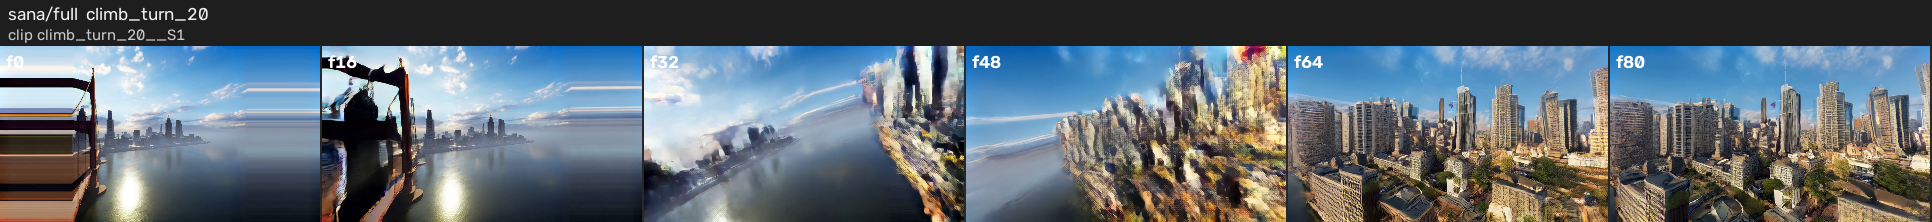
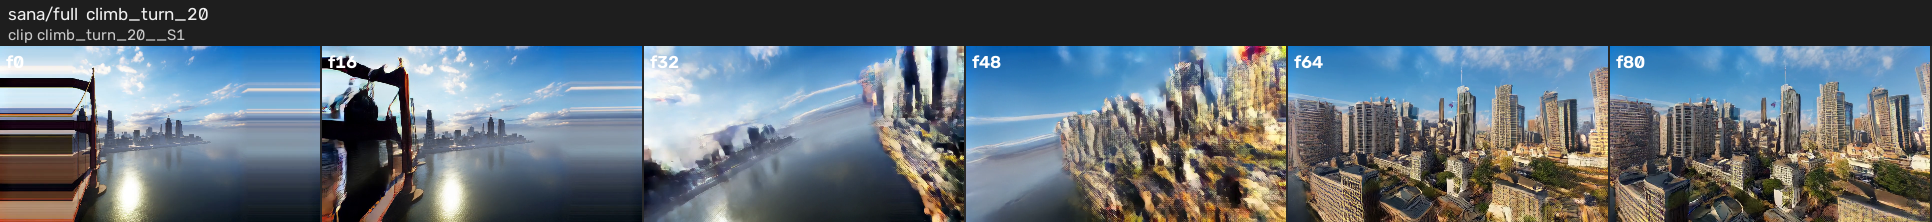
x2: quote the frozen tier's real development numbers and rebuild the labelling kit
coh12_p1 dev false-reject 1/17, detection by family with denominators, and the fact that no
forest_ridge clip is testable at all; 27 contact sheets.

diff --git a/reports/X2_final_design_dev.md b/reports/X2_final_design_dev.md
@@ -84,17 +84,29 @@ order them.
 
 ### Pipeline development evidence (reused, cited — not recomputed here)
 
+The pipeline's own numbers are the frozen tier's, already published; they are quoted here with
+their denominators so the design is auditable in one place. Source: `results/g06/ablation/tables.md`
+and `detection_matched.csv` on `main`.
+
 | quantity | value | source |
 | --- | --- | --- |
-| window false-reject on real feasible flights, frozen coherence tier | not re-measured here (G06 reports it) | G06 |
-| clip-level false-reject / detection, dev simulated set, `a2_bh_coh12_q10` | not re-measured here (G06/G07 report it) | G06 |
-| anchored-start coverage, 200 dev clips | 16 feasible clips anchored; abstention 163-191/200 | N3B, N3D |
+| clip-level false-reject, `coh12_p1`, dev feasible clips | **1/17 (5.9 %)** | G06 |
+| detection, full-clip defects, `coh12_p1` | urban tilt_removed 3/3, urban mirrored 3/3; industrial tilt_removed 0/2, industrial mirrored 2/2, industrial tilt_scaled 0/4 | G06 |
+| forest_ridge testable clips under `coh12_p1` | **0 feasible and 0 defect clips are testable at all** | G06 |
+| window-level false-reject, `coh12_p1`, q = 0.10 per clip | 0/17 feasible clips flagged, 1 of 3,305 windows | G06 |
+| anchored-start coverage, 200 dev clips | 16 feasible clips anchored; fallback abstains on 163-191 of 200 | N3B, N3D |
 | anchored-start detection at the matched pooled 8/80 | 6/27 removals, 6/27 mirrors, 0/9 forest removals | N3B |
 | drift-flag recall | 3/6 tail clips against a >= 2/3 criterion (fails) | N3C |
 
+Two things follow and neither is flattering. The frozen tier's false-reject on the simulated
+development set is low (1/17) but its *testable* population is tiny, and **no forest clip is
+testable at all** — the same coverage problem the anchored start has, seen from the other side. The
+detection table is therefore dominated by urban and industrial full-clip defects, which is why
+criterion D3 (coverage) rather than D2 (detection) is the one this pipeline is most likely to fail.
+
 ### Human-judgement kit (new, unlabelled)
 
-`results/x/human_check/` holds 24 side-by-side contact sheets (six frames evenly spaced over each
+`results/x/human_check/` holds 27 side-by-side contact sheets (six frames evenly spaced over each
 clip, header naming the generator and the path) and `labels.csv` with a blank
 `plausible_1_to_5` column and a comment column. No verdict is drawn on the sheets: the question is
 "is this flight plausible?", and the labels are the user's to give. The kit is balanced across
@@ -135,5 +147,5 @@ without a visual-quality measurement to attach it to.
 * Four ANWM paths are not expressible in its action space and carry `expressible: false`.
 * The tilt gain is a Stage-1 statistic on 5 s clips; it is not a verdict and does not replace the
   clip-level BH rule.
-* The labelling kit has 24 sheets, not the 40 the handoff envisioned, because generation produced
+* The labelling kit has 27 sheets, not the 40 the handoff envisioned, because generation produced
   fewer clips in the window than planned; every sheet that exists is listed in `labels.csv`.

diff --git a/docs/COST_LEDGER.md b/docs/COST_LEDGER.md
@@ -376,7 +376,7 @@ cap, readers 1.0).
 | 2026-11-25 | X | LingBot-World NF4, three launches, **no clip** | A100-80GB | ~3.0 | ~7.5 | two interface failures (intrinsics shape) then a long model load; the largest single line of this track and a pure loss |
 | 2026-11-25 | X | SANA-WM full campaign, 23 clips over 4 shards | A100-80GB | 1.6 | 4.0 | ~6 min per clip per shard (model reload per subprocess dominates) |
 | 2026-11-25 | X | frozen readers: SolarWM 26+8, SANA 5, ANWM 17 clips | A10 | 0.55 | 0.60 | 0.009-0.03 USD per 81-frame clip |
-| 2026-11-25 | X | contact sheets (40-clip kit) | CPU 4 | 0.05 | 0.01 | 24 sheets written |
+| 2026-11-25 | X | contact sheets (labelling kit) | CPU 4 | 0.06 | 0.01 | 27 sheets written, rebuilt after the full clip set landed |
 
 **Track X Stage-1 total (actual): USD 12.82**, from `modal billing report --start 2026-11-25
 --end 2026-11-26 --json` by app: SANA-WM 5.55, LingBot 3.53, SolarWM 1.85, ANWM 1.26, readers 0.63.
